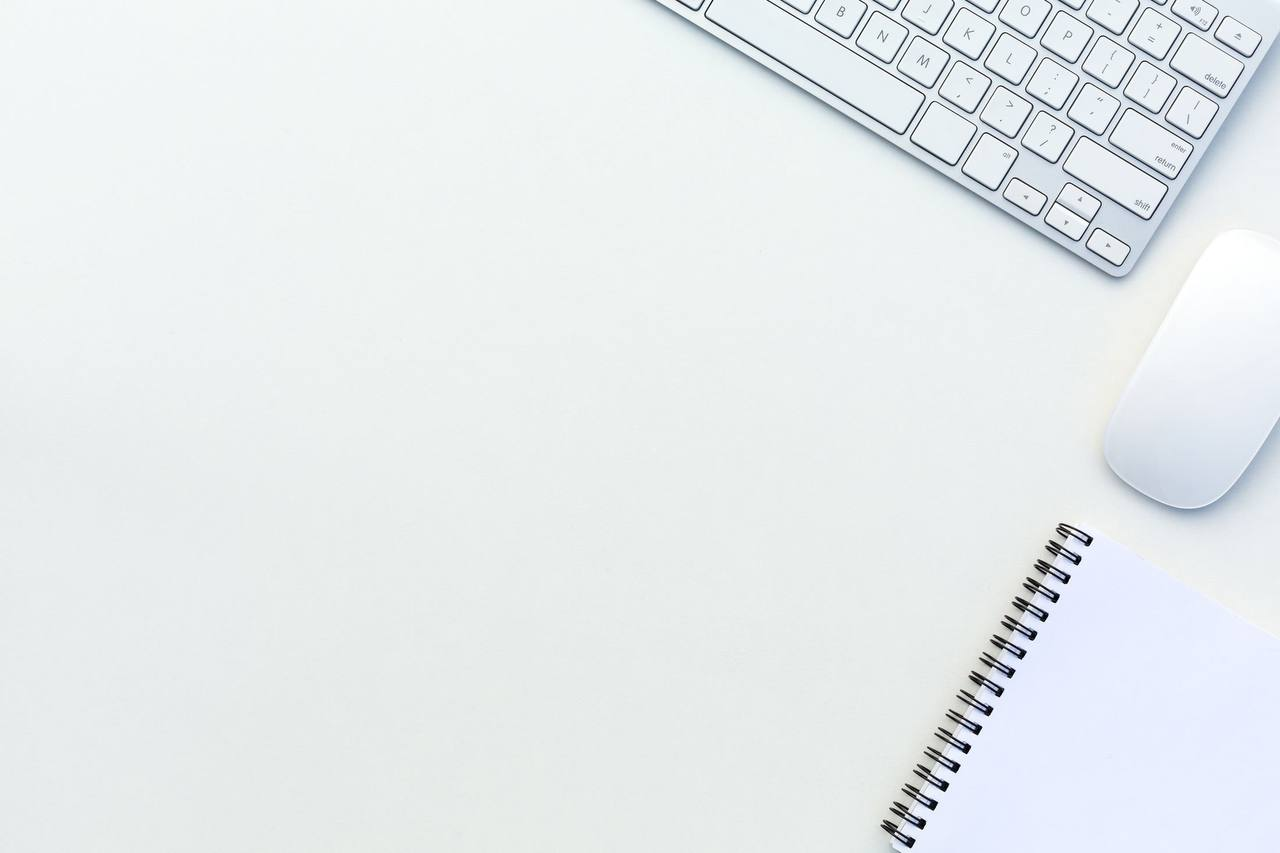
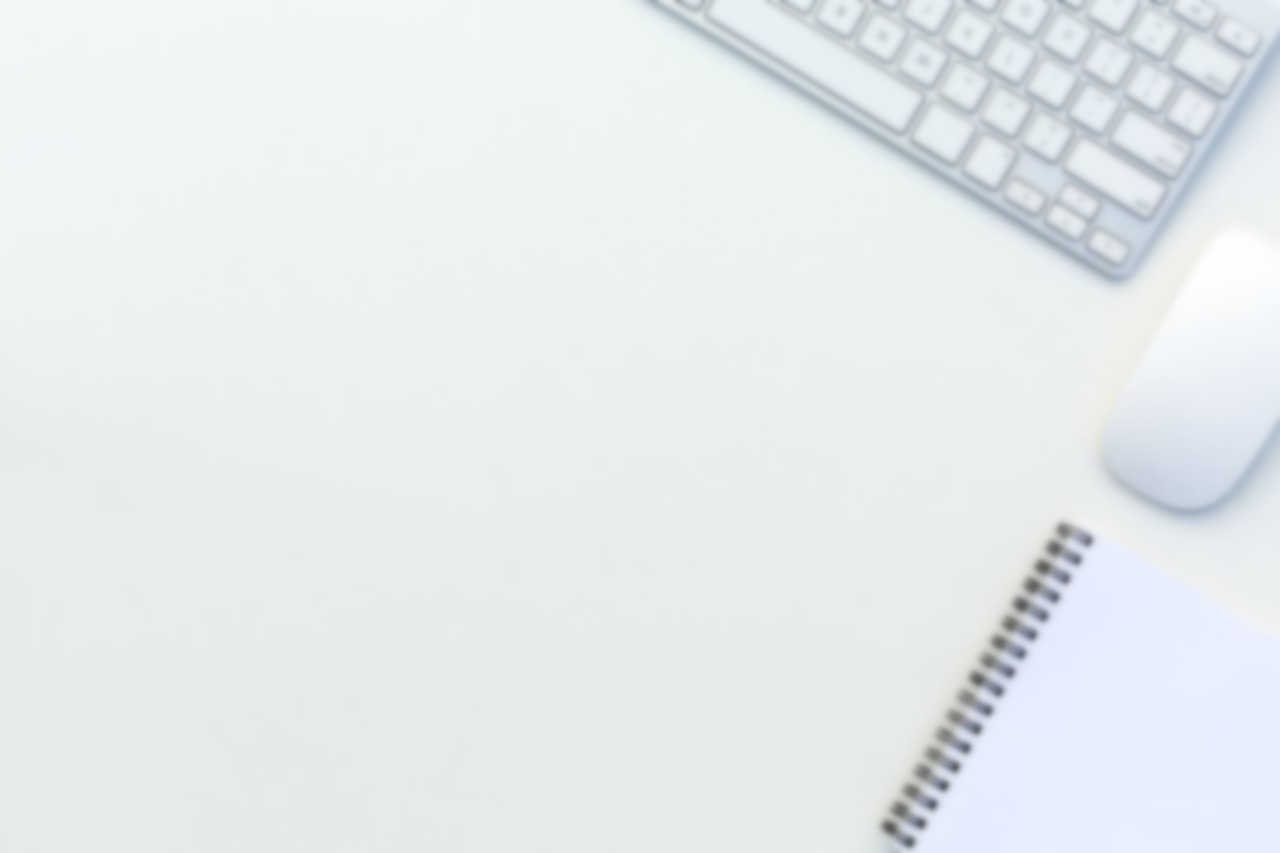
верстка входа

diff --git a/web/css/site.css b/web/css/site.css
@@ -15,11 +15,20 @@
     padding: 0;
     margin: 0;
 }
-main {
-    padding: 70px 15px 20px;
-    background-color: red;
+button{
+    background-color: #9699CA;
+    color: white;
+    border: none;
+    border-radius: 10px;
 }
+.button{
+    margin-top:30px;
+    margin-left: 175px ;
+    padding: 9px 35px;
+    font-size: 14px;
+    letter-spacing: 2px;
 
+}
 p{
     padding:0;
     margin: 0;
@@ -27,6 +36,7 @@ p{
 a{
     text-decoration: none;
     color:black;
+    font-size: 14px;
 }
 /* header */
 header{
@@ -42,22 +52,86 @@ header div{
 
 }
 header > div{
-    margin-right:600px;
+    margin-right:650px;
 
 }
 .header_item > a{
     margin: 0 5px;
 
 }
-.footer {
-    background-color: #f5f5f5;
-    font-size: .9em;
-    height: 60px;
+/* main */
+.wrap {
+    margin-left: auto;
+    margin-right: auto;
+    max-width: 1960px;
+    min-height: 620px;
+    position: relative;
+
 }
 
-.footer > .container {
-    padding-right: 15px;
-    padding-left: 15px;
+.menu {
+    position: absolute;
+    top: 0;
+    bottom: 0;
+    left: 0;
+    width: 250px;
+    background: #F47D6C;
+}
+.menu > div{
+    margin: 20px 0;
+}
+.menu > div a{
+    display: flex;
+    justify-content: center;
+    margin: 10px 0;
+    font-size: 16px;
+}
+/* content - index */
+.content {
+    min-height: 620px;
+    margin-left: 250px;
+    padding: 1.5em;
+    background: url("../../web/img/photo4.jpg") no-repeat;
+    /*filter: blur(10px);*/
+    /*opacity: 2%;*/
+    background-size: cover;
+
+}
+.site-index{
+
+}
+.site-index > h1{
+    margin: 50px 0 30px 50px;
+}
+.site-index > p{
+    margin: 0 0 50px 50px;
+    line-height: 40px;
+    letter-spacing: 2px;
+    width: 60%;
+    font-size: 18px;
+}
+.site-index > button{
+    margin: 0 0 50px 100px;
+    padding: 10px 35px;
+    font-size: 14px;
+    letter-spacing: 2px;
+}
+/* login */
+.site-login{
+    margin: 40px 0;
+}
+.container{
+    width: 500px;
+    margin: 0 auto;
+}
+.login_h1{
+    text-align: center;
+}
+footer {
+
+    font-size: 10px;
+    padding: 20px 0 20px 20px;
+
 }
 
 .not-set {

diff --git a/views/site/index.php b/views/site/index.php
@@ -2,52 +2,12 @@
 
 /** @var yii\web\View $this */
 
-$this->title = 'My Yii Application';
+$this->title = 'MYDAY';
 ?>
 <div class="site-index">
+    <h1>MYDAY</h1>
+    <p>Это твой личный ежедневник.
+        Предназначен для того, чтобы автоматизировать планирование задач, событий, встреч, составление  расписания и список покупок.</p>
+    <button>Начни планировать свою жизнь</button>
 
-    <div class="jumbotron text-center bg-transparent">
-        <h1 class="display-4">Congratulations!</h1>
-
-        <p class="lead">You have successfully created your Yii-powered application.</p>
-
-        <p><a class="btn btn-lg btn-success" href="http://www.yiiframework.com">Get started with Yii</a></p>
-    </div>
-
-    <div class="body-content">
-
-        <div class="row">
-            <div class="col-lg-4">
-                <h2>Heading</h2>
-
-                <p>Lorem ipsum dolor sit amet, consectetur adipisicing elit, sed do eiusmod tempor incididunt ut labore et
-                    dolore magna aliqua. Ut enim ad minim veniam, quis nostrud exercitation ullamco laboris nisi ut aliquip
-                    ex ea commodo consequat. Duis aute irure dolor in reprehenderit in voluptate velit esse cillum dolore eu
-                    fugiat nulla pariatur.</p>
-
-                <p><a class="btn btn-outline-secondary" href="http://www.yiiframework.com/doc/">Yii Documentation &raquo;</a></p>
-            </div>
-            <div class="col-lg-4">
-                <h2>Heading</h2>
-
-                <p>Lorem ipsum dolor sit amet, consectetur adipisicing elit, sed do eiusmod tempor incididunt ut labore et
-                    dolore magna aliqua. Ut enim ad minim veniam, quis nostrud exercitation ullamco laboris nisi ut aliquip
-                    ex ea commodo consequat. Duis aute irure dolor in reprehenderit in voluptate velit esse cillum dolore eu
-                    fugiat nulla pariatur.</p>
-
-                <p><a class="btn btn-outline-secondary" href="http://www.yiiframework.com/forum/">Yii Forum &raquo;</a></p>
-            </div>
-            <div class="col-lg-4">
-                <h2>Heading</h2>
-
-                <p>Lorem ipsum dolor sit amet, consectetur adipisicing elit, sed do eiusmod tempor incididunt ut labore et
-                    dolore magna aliqua. Ut enim ad minim veniam, quis nostrud exercitation ullamco laboris nisi ut aliquip
-                    ex ea commodo consequat. Duis aute irure dolor in reprehenderit in voluptate velit esse cillum dolore eu
-                    fugiat nulla pariatur.</p>
-
-                <p><a class="btn btn-outline-secondary" href="http://www.yiiframework.com/extensions/">Yii Extensions &raquo;</a></p>
-            </div>
-        </div>
-
-    </div>
 </div>

diff --git a/views/site/login.php b/views/site/login.php
@@ -11,39 +11,29 @@ $this->title = 'Login';
 $this->params['breadcrumbs'][] = $this->title;
 ?>
 <div class="site-login">
-    <h1><?= Html::encode($this->title) ?></h1>
-
-    <p>Please fill out the following fields to login:</p>
-
-    <?php $form = ActiveForm::begin([
-        'id' => 'login-form',
-        'layout' => 'horizontal',
-        'fieldConfig' => [
-            'template' => "{label}\n{input}\n{error}",
-            'labelOptions' => ['class' => 'col-lg-1 col-form-label mr-lg-3'],
-            'inputOptions' => ['class' => 'col-lg-3 form-control'],
-            'errorOptions' => ['class' => 'col-lg-7 invalid-feedback'],
-        ],
-    ]); ?>
+    <div class="container">
+        <h1 class="login_h1">Вход</h1>
+        <?php $form = ActiveForm::begin([
+            'id' => 'login-form',
+            'layout' => 'horizontal',
+            'fieldConfig' => [
+                'template' => "{label}\n{input}\n{error}",
+                'labelOptions' => ['class' => 'col-lg-1 col-form-label mr-lg-3'],
+                'inputOptions' => ['class' => 'col-lg-3 form-control'],
+                'errorOptions' => ['class' => 'col-lg-7 invalid-feedback'],
+            ],
+        ]); ?>
 
         <?= $form->field($model, 'username')->textInput(['autofocus' => true]) ?>
 
         <?= $form->field($model, 'password')->passwordInput() ?>
 
-        <?= $form->field($model, 'rememberMe')->checkbox([
-            'template' => "<div class=\"offset-lg-1 col-lg-3 custom-control custom-checkbox\">{input} {label}</div>\n<div class=\"col-lg-8\">{error}</div>",
-        ]) ?>
+        <button class="button">Войти</button>
 
-        <div class="form-group">
-            <div class="offset-lg-1 col-lg-11">
-                <?= Html::submitButton('Login', ['class' => 'btn btn-primary', 'name' => 'login-button']) ?>
-            </div>
-        </div>
 
-    <?php ActiveForm::end(); ?>
 
-    <div class="offset-lg-1" style="color:#999;">
-        You may login with <strong>admin/admin</strong> or <strong>demo/demo</strong>.<br>
-        To modify the username/password, please check out the code <code>app\models\User::$users</code>.
+        <?php ActiveForm::end(); ?>
     </div>
+
+
 </div>

diff --git a/views/layouts/main.php b/views/layouts/main.php
@@ -30,7 +30,7 @@ $this->registerLinkTag(['rel' => 'icon', 'type' => 'image/x-icon', 'href' => Yii
 <?php $this->beginBody() ?>
 
 <header>
-    <img src="<?= Yii::$app->request->baseUrl?>/web/img/logo.png" width="200px" alt="photo">
+    <a href="<?= Yii::$app->urlManager->createUrl('/') ?>"><img src="<?= Yii::$app->request->baseUrl?>/web/img/logo.png" width="200px" alt="photo"></a>
     <div>
         <div class="header_item">
             <img src="<?= Yii::$app->request->baseUrl?>/web/img/avatar.png" width="60px" alt="avatar">
@@ -46,17 +46,35 @@ $this->registerLinkTag(['rel' => 'icon', 'type' => 'image/x-icon', 'href' => Yii
 </header>
 
 <main class="">
-    <div class="container">
+        <div class="wrap">
+            <div class="menu">
+                <div>
+                    <?php if (Yii::$app->user->isGuest): ?>
+                        <a href="<?= Yii::$app->urlManager->createUrl('site/login')?>">Вход</a>
+                        <a href="">Регистрация</a>
+                    <?php endif ?>
+                        <a href="">Профиль</a>
+                        <a href="">Задачи</a>
+                        <a href="">Заметки</a>
+                        <a href="">Список покупок</a>
+                        <a href="">Статистика</a>
+                </div>
 
-        <?= $content ?>
-    </div>
+            </div>
+            <div class="content">
+                <?= $content ?>
+            </div>
+        </div>
+
 </main>
 
 <footer class="">
-
+    <p>© MyDay 2023. Все права защищены.</p>
 </footer>
 
-<?php $this->endBody() ?>
+<?php if (class_exists('yii\debug\Module')) {
+    $this->off(\yii\web\View::EVENT_END_BODY, [\yii\debug\Module::getInstance(), 'renderToolbar']);
+} $this->endBody() ?>
 </body>
 </html>
 <?php $this->endPage() ?>

diff --git a/models/LoginForm.php b/models/LoginForm.php
@@ -19,7 +19,14 @@ class LoginForm extends Model
 
     private $_user = false;
 
+    public function attributeLabels()
+    {
+        return [
+            'username' => 'Логин',
+            'password' => 'Пароль',
 
+        ];
+    }
     /**
      * @return array the validation rules.
      */
@@ -64,6 +71,7 @@ class LoginForm extends Model
         }
         return false;
     }
+
 
     /**
      * Finds user by [[username]]

diff --git a/config/db.php b/config/db.php
@@ -2,7 +2,7 @@
 
 return [
     'class' => 'yii\db\Connection',
-    'dsn' => 'mysql:host=localhost;dbname=yii2basic',
+    'dsn' => 'mysql:host=localhost;dbname=myday',
     'username' => 'root',
     'password' => '',
     'charset' => 'utf8',
